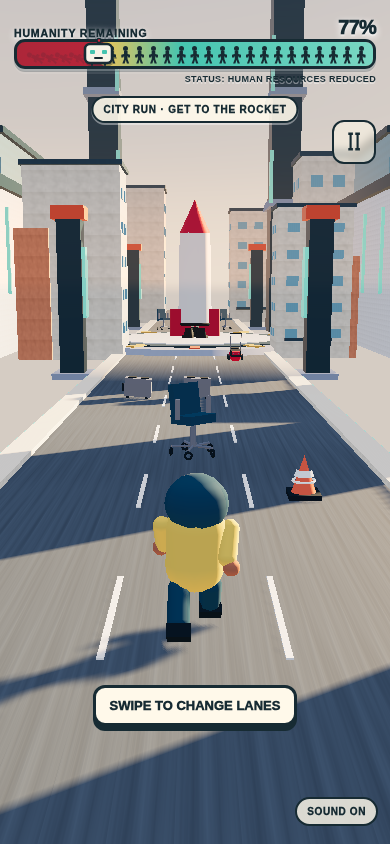
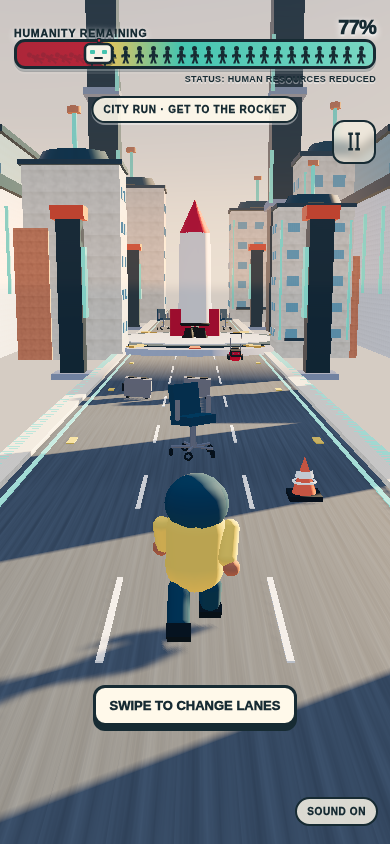
Give the launch district a futuristic street identity

diff --git a/game/assets/city_building.js b/game/assets/city_building.js
@@ -4,6 +4,7 @@ export default function (THREE) {
   const coral = new THREE.MeshStandardMaterial({ color: 0xe98b62, roughness: 0.84 }); coral.name = 'plaster';
   const teal = new THREE.MeshStandardMaterial({ color: 0x1f4e5f, roughness: 0.72 }); teal.name = 'metal';
   const glass = new THREE.MeshStandardMaterial({ color: 0x78b7c5, roughness: 0.3, metalness: 0.12 }); glass.name = 'glass';
+  const guide = new THREE.MeshStandardMaterial({ color: 0x45c4b0, roughness: 0.38, emissive: 0x45c4b0, emissiveIntensity: 0.55 }); guide.name = 'metal';
   const main = new THREE.Mesh(new THREE.BoxGeometry(5.6, 12, 4.6), plaster);
   main.position.y = 6;
   g.add(main);
@@ -29,6 +30,20 @@ export default function (THREE) {
   const roof = new THREE.Mesh(new THREE.BoxGeometry(5.9, 0.3, 4.9), teal);
   roof.position.y = 12.15;
   g.add(roof);
+  for (const x of [-2.55, 2.55]) {
+    const light = new THREE.Mesh(new THREE.BoxGeometry(0.16, 9.5, 0.14), guide);
+    light.position.set(x, 6.2, 2.43);
+    g.add(light);
+  }
+  const crown = new THREE.Mesh(new THREE.CylinderGeometry(1.9, 2.25, 0.7, 10), teal);
+  crown.position.set(0, 12.7, 0);
+  g.add(crown);
+  const beacon = new THREE.Mesh(new THREE.CylinderGeometry(0.15, 0.15, 2.4, 8), guide);
+  beacon.position.set(0, 14.25, 0);
+  g.add(beacon);
+  const cap = new THREE.Mesh(new THREE.CylinderGeometry(0.42, 0.42, 0.38, 8), coral);
+  cap.position.set(0, 15.65, 0);
+  g.add(cap);
   g.children.forEach((o) => { o.position.x -= 0.2; o.position.z -= 0.367; });
   return g;
 }

diff --git a/game/assets/city_road.js b/game/assets/city_road.js
@@ -3,6 +3,8 @@ export default function (THREE) {
   const asphalt = new THREE.MeshStandardMaterial({ color: 0x56646b, roughness: 0.94 }); asphalt.name = 'ground';
   const curb = new THREE.MeshStandardMaterial({ color: 0xf5e6c8, roughness: 0.9 }); curb.name = 'stone';
   const paint = new THREE.MeshStandardMaterial({ color: 0xfff9ea, roughness: 0.84 }); paint.name = 'ground';
+  const guide = new THREE.MeshStandardMaterial({ color: 0x45c4b0, roughness: 0.38, emissive: 0x45c4b0, emissiveIntensity: 0.75 }); guide.name = 'metal';
+  const approach = new THREE.MeshStandardMaterial({ color: 0xf6c453, roughness: 0.7 }); approach.name = 'ground';
   const road = new THREE.Mesh(new THREE.BoxGeometry(8.2, 0.18, 40), asphalt);
   road.position.y = 0.09;
   road.receiveShadow = true;
@@ -20,6 +22,17 @@ export default function (THREE) {
       g.add(dash);
     }
   }
+  for (const x of [-3.83, 3.83]) {
+    const line = new THREE.Mesh(new THREE.BoxGeometry(0.12, 0.025, 40), guide);
+    line.position.set(x, 0.205, 0);
+    g.add(line);
+  }
+  for (const z of [-15, -5, 5, 15]) {
+    for (const x of [-3.35, 3.35]) {
+      const marker = new THREE.Mesh(new THREE.BoxGeometry(0.22, 0.025, 0.72), approach);
+      marker.position.set(x, 0.21, z);
+      g.add(marker);
+    }
+  }
   return g;
 }
-

diff --git a/review/README.md b/review/README.md
@@ -42,12 +42,12 @@ The table reports the production deployment at commit `48fdae9`. The harness rep
 
 ## Local rocket hub iteration
 
-The City Run now has a fixed road to the rocket, a launch hub visible from the start, and wayfinder arches along the route. Obstacle rows are placed before play instead of appearing ahead of the player. The rocket stays at the end of the road and the ladder transition waits until the player reaches it.
+The City Run now has a fixed road to the rocket, launch-route lighting and beacons, a launch hub visible from the start, and wayfinder arches along the route. Obstacle rows are placed before play instead of appearing ahead of the player. The rocket stays at the end of the road and the ladder transition waits until the player reaches it.
 
 - [Opening on the launch route](rocket-hub-opening.png)
 - [Approaching the rocket](rocket-hub-arrival.png)
-- [New asset contact sheet](rocket-hub-assets.png)
-- [New asset verifier report](rocket-hub-assets.json)
+- [Four City Run asset contact sheet](rocket-hub-assets.png)
+- [Four City Run asset verifier report](rocket-hub-assets.json)
 - [Passing local mobile gate verdict](rocket-hub-local-verdict.json)
 
 These are local 390×844 browser captures, not a new production gate verdict. The full City Run reached the ladder at 318 m with zero page errors or missing requests. The accelerated QA path still reached Space Flight. The local jam gate passed at commit `cb73a5f`: 4.1 s ready, 1.6 MB, 320 peak draw calls, 38,838 peak triangles, zero errors and 404s. The gate must be rerun against the final deployed commit.

diff --git a/docs/ASSET_PROVENANCE.md b/docs/ASSET_PROVENANCE.md
@@ -6,7 +6,7 @@ Record every shipped image, sound, music track, voice, and generated reference h
 
 All 26 modules in `game/assets/` are original Three.js source authored through the 404 recipe contract. Each default-exports a function of `THREE` and returns one `THREE.Group`. They cover the hoodie player, three robot families, city/launch props, the new rocket hub and spaceport wayfinder, ladder, player ship, satellites and debris, docking port, station corridor, lasers, security bots, master switch, and Earth.
 
-The original 24 modules passed the official recipe verifier; their contact sheet and report are preserved in `review/full-game-assets.png` and `review/full-game-assets.json`. The rocket hub and wayfinder also passed load, render, framing, finite-bounds, ground, centre, and side-view checks. Their sheet and report are preserved in `review/rocket-hub-assets.png` and `review/rocket-hub-assets.json`.
+The original 24 modules passed the official recipe verifier; their contact sheet and report are preserved in `review/full-game-assets.png` and `review/full-game-assets.json`. The new rocket hub and wayfinder, plus the revised city road and building, passed load, render, framing, finite-bounds, ground, centre, and side-view checks. Their sheet and report are preserved in `review/rocket-hub-assets.png` and `review/rocket-hub-assets.json`.
 
 ## External and generated files
 
